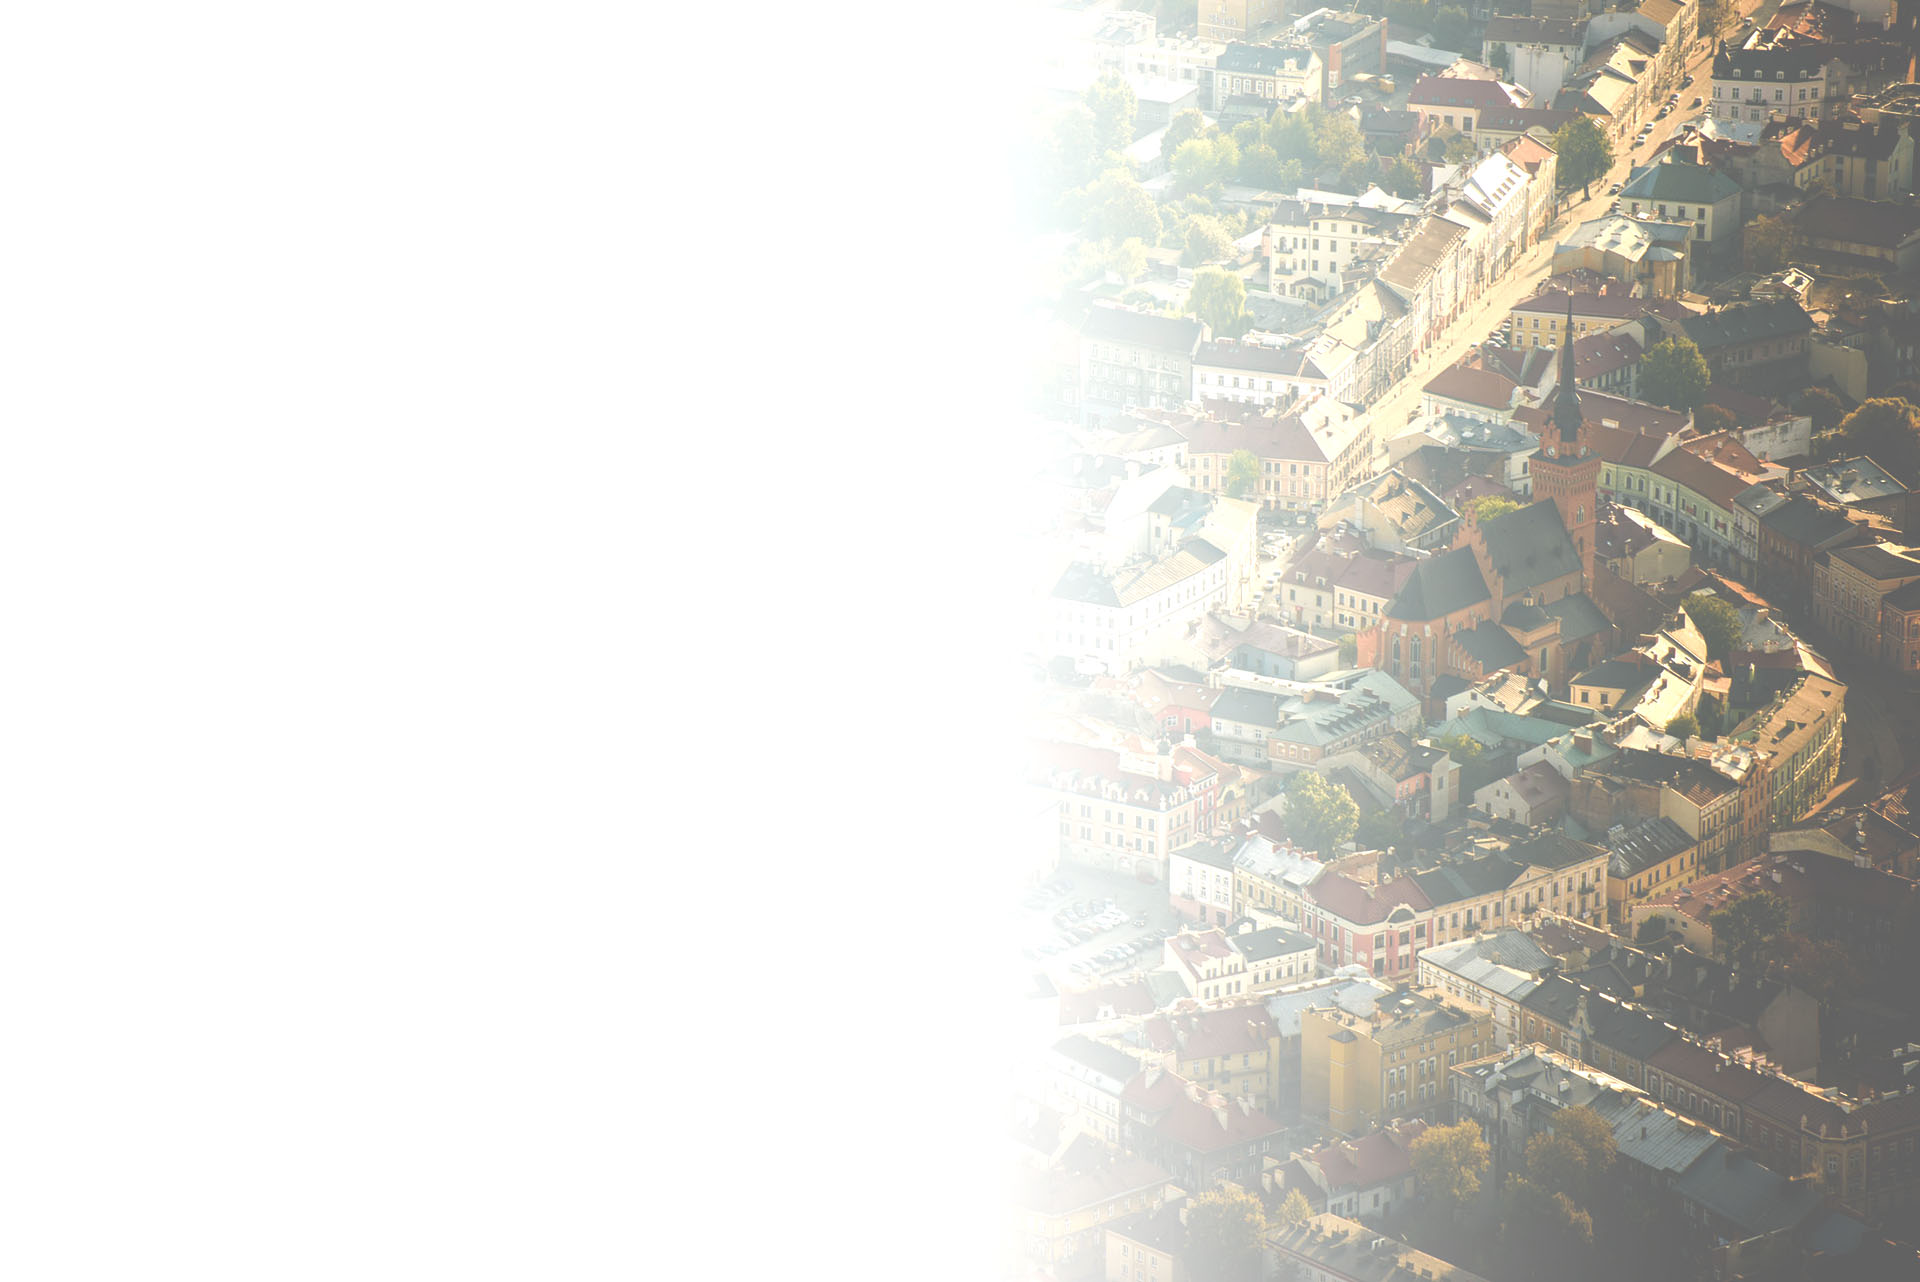
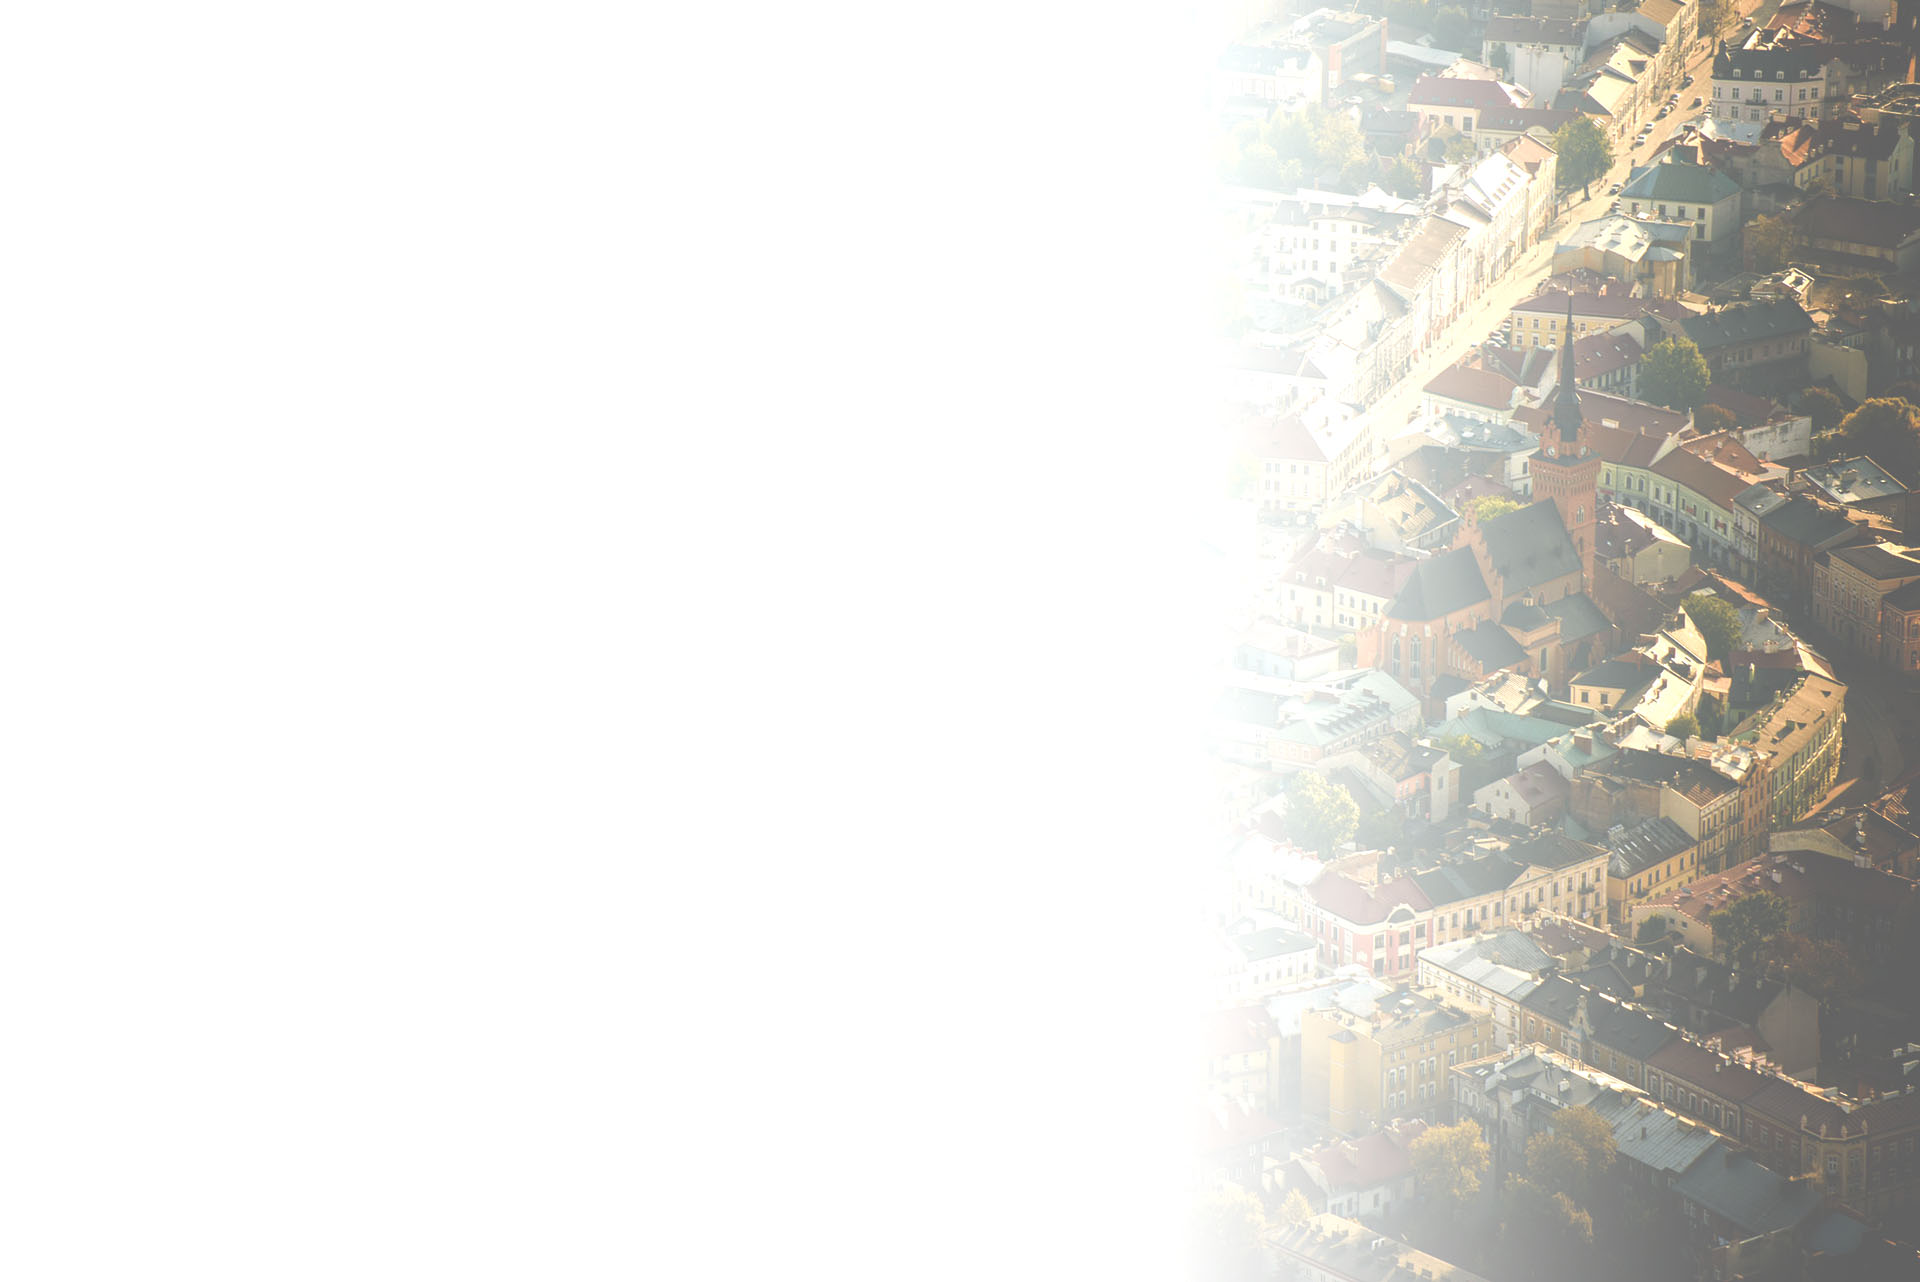
attributions, hrome styling, register styling

Changed region(s): [[0.5625, 0.0, 0.8438, 1.0]]

diff --git a/hackhathonTarnow/wwwroot/hackhaton/src/app/registration/registration.component.html b/hackhathonTarnow/wwwroot/hackhaton/src/app/registration/registration.component.html
@@ -1,52 +1,58 @@
-<form class="registration-form container" [formGroup]="registerForm" (ngSubmit)="onFormSubmit(registerForm.value)" >
-  <div class="form-fields">
-    <div class="row">
-      <div class="col-6">
-        <mat-form-field class="form-field">
-          <input matInput required placeholder="Imie" formControlName="Name">
-          <mat-error *ngIf="!registerForm.get('Name').valid && registerForm.get('Name').touched">  
-            Imie jest <strong>wymagane</strong> 
-          </mat-error> 
-        </mat-form-field>
-        <mat-form-field class="form-field">
-          <input matInput formControlName="Surname" placeholder="Nazwisko">
-          <mat-error *ngIf="!registerForm.get('Surname').valid && registerForm.get('Surname').touched">
-            Nazwisko jest <strong>wymagane</strong>
-          </mat-error>
-        </mat-form-field>
-        <mat-form-field class="form-field">
-          <input matInput placeholder="Telefon" formControlName="Phone">
-         <!--  <mat-error *ngIf="!registerForm.get('Phone').valid && registerForm.get('Phone').touched">
-            Wprowadz poprawny number telefonu.
-          </mat-error>  -->
-          <mat-error *ngIf="!registerForm.get('Phone').valid && registerForm.get('Phone').touched">
-            Telefon jest <strong>wymagany</strong>
-          </mat-error>
-        </mat-form-field>
-      </div>
-      <div class="col-6">
-        <mat-form-field class="form-field">
+<mat-card>
+  <mat-card-title>Zarejestruj się w <span>park</span><span>IN</span></mat-card-title>
+  <mat-card-subtitle>Znajdziemy dla Ciebie miejsce.</mat-card-subtitle>
+  <mat-card-content>
+    <form class="registration-form container" [formGroup]="registerForm" (ngSubmit)="onFormSubmit(registerForm.value)">
+      <div class="form-fields">
+        <div class="row">
+          <div class="col-6">
+            <mat-form-field class="form-field">
+              <input matInput required placeholder="Imie" formControlName="Name">
+              <mat-error *ngIf="!registerForm.get('Name').valid && registerForm.get('Name').touched">
+                Imie jest <strong>wymagane</strong>
+              </mat-error>
+            </mat-form-field>
+            <mat-form-field class="form-field">
+              <input matInput required formControlName="Surname" placeholder="Nazwisko">
+              <mat-error *ngIf="!registerForm.get('Surname').valid && registerForm.get('Surname').touched">
+                Nazwisko jest <strong>wymagane</strong>
+              </mat-error>
+            </mat-form-field>
+            <mat-form-field class="form-field">
+              <input matInput required placeholder="Telefon" formControlName="Phone">
+              <!--  <mat-error *ngIf="!registerForm.get('Phone').valid && registerForm.get('Phone').touched">
+                 Wprowadz poprawny number telefonu.
+               </mat-error>  -->
+              <mat-error *ngIf="!registerForm.get('Phone').valid && registerForm.get('Phone').touched">
+                Telefon jest <strong>wymagany</strong>
+              </mat-error>
+            </mat-form-field>
+          </div>
+          <div class="col-6">
+            <mat-form-field class="form-field">
 
-          <input matInput placeholder="Email" formControlName="Email">
-          <!-- <mat-error *ngIf="emailFormControl.hasError('email') && !emailFormControl.hasError('required')">
-            Wprowadz poprawny adres email.
-          </mat-error> 
-        -->
-          <mat-error *ngIf="!registerForm.get('Email').valid && registerForm.get('Email').touched">
-            Email jest <strong>wymagany</strong>
-          </mat-error>
-        </mat-form-field>
-        <mat-form-field class="form-field">
-          <input matInput type="password" formControlName="Password" placeholder="Hasło">
-          <mat-error *ngIf="!registerForm.get('Password').valid && registerForm.get('Password').touched">
-            Hasło jest <strong>wymagane</strong>
-          </mat-error>
-        </mat-form-field>
-        <mat-form-field class="form-field">
-          <input matInput name="CardID" placeholder="ID karty miejskiej" >
-        </mat-form-field>
+              <input matInput required placeholder="Email" formControlName="Email">
+              <!-- <mat-error *ngIf="emailFormControl.hasError('email') && !emailFormControl.hasError('required')">
+                  Wprowadz poprawny adres email.
+                </mat-error>
+              -->
+              <mat-error *ngIf="!registerForm.get('Email').valid && registerForm.get('Email').touched">
+                Email jest <strong>wymagany</strong>
+              </mat-error>
+            </mat-form-field>
+            <mat-form-field class="form-field">
+              <input matInput required type="password" formControlName="Password" placeholder="Hasło">
+              <mat-error *ngIf="!registerForm.get('Password').valid && registerForm.get('Password').touched">
+                Hasło jest <strong>wymagane</strong>
+              </mat-error>
+            </mat-form-field>
+            <mat-form-field class="form-field">
+              <input matInput name="CardID" placeholder="ID karty miejskiej">
+            </mat-form-field>
+          </div>
+        </div>
+        <button mat-flat-button type="submit" color="primary">Zarejestruj sie</button>
       </div>
-    </div>
-    <button mat-raised-button type= "submit"  color="primary">Zarejestruj sie</button>
-  </div>
-</form>
+    </form>
+  </mat-card-content>
+</mat-card>

diff --git a/hackhathonTarnow/wwwroot/hackhaton/src/app/attribution/attribution.component.html b/hackhathonTarnow/wwwroot/hackhaton/src/app/attribution/attribution.component.html
@@ -1,24 +1,26 @@
-<p>
-  Projekt powstał w ramach <a href="http://www.tarnow.pl/Dla-firm-i-inwestorow/Projekty-i-wydarzenia/Forum-Innowacji">tarnowskiego, 36-godzinnego Hackatonu</a>
-</p>
-<p>
-  Wykorzystane technologie:
-</p>
+<mat-card>
+  <p>
+    Projekt powstał w ramach <a href="http://www.tarnow.pl/Dla-firm-i-inwestorow/Projekty-i-wydarzenia/Forum-Innowacji">tarnowskiego, 36-godzinnego Hackatonu</a>
+  </p>
+  <p>
+    Wykorzystane technologie:
+  </p>
   <ul>
-    <li>Angular 7</li>
-    <li>Angular Material</li>
-    <li>Google Maps</li>
-    <li>Bootstrap</li>
+    <li><a href="https://angular.io/">Angular 7</a></li>
+    <li><a href="https://material.angular.io/">Angular Material</a></li>
+    <li><a href="https://developers.google.com/maps/documentation/">Google Maps</a></li>
+    <li><a href="https://getbootstrap.com/">Bootstrap</a></li>
   </ul>
-<p>
-  Wykorzystani ludzie
-</p>
+  <p>
+    Wykorzystani ludzie
+  </p>
   <ul>
-    <li>Jakub Faliszewski</li>
-    <li>Dawid Malec</li>
-    <li>Dominik Kozioł</li>
-    <li>Krystian Smoleń</li>
+    <li><a href="https://github.com/jakubfaliszewski">Jakub Faliszewski</a></li>
+    <li><a href="https://github.com/dawidmalec7">Dawid Malec</a></li>
+    <li><a href="https://github.com/dominikkoziol">Dominik Kozioł</a></li>
+    <li><a href="https://github.com/ksmolenwsei">Krystian Smoleń</a></li>
   </ul>
-<p>
-  Wykorzystano ikony z pakietu Essential Collection autorstwa Smashicons | www.flaticon.com
- </p>
+  <p>
+    Wykorzystano ikony autorstwa Smashicons | <a href="https://www.flaticon.com/authors/smashicons">www.flaticon.com</a>
+</p>
+</mat-card>

diff --git a/hackhathonTarnow/wwwroot/hackhaton/src/app/home/home.component.html b/hackhathonTarnow/wwwroot/hackhaton/src/app/home/home.component.html
@@ -30,7 +30,7 @@
         <div class="col-12 col-sm-6 bg-white">
           <div class="left-side-wrapper">
             <form class="login-form">
-              <mat-card-title>Witamy w parkIN</mat-card-title>
+              <mat-card-title>Witamy w <span>park</span><span>IN</span></mat-card-title>
               <mat-card-subtitle>Jedynej w Tarnowie aplikacji parkingowej</mat-card-subtitle>
               <mat-form-field class="form-field full-width">
                 <input matInput placeholder="Email" [(ngModel)]="user.Email" [formControl]="emailFormControl"
@@ -50,15 +50,14 @@
               </mat-form-field>
             </form>
              <mat-card-actions>
-              <a mat-raised-button (click)="login()" color="accent">Zaloguj</a>
-              <a mat-raised-button routerLink="map" color="primary">Mapa</a>
-              <a mat-raised-button routerLink="registration" color="primary">Rejestracja</a>
-              <button mat-button routerLink="info" color="accent">Informacje</button>
+              <a mat-flat-button (click)="login()" color="accent">Zaloguj</a>
+              <a mat-flat-button routerLink="registration" color="primary">Rejestracja</a>
+              <a mat-flat-button routerLink="map" color="primary">Mapa</a>
             </mat-card-actions>
           </div>
         </div>
         <div class="col-sm-6 image-wrapper">
-          <img class="stretch-image" src='../assets/tarnow1.jpg' />
+          <img class="stretch-image" src='../assets/user.svg' />
         </div>
       </div>
     </div>

diff --git a/hackhathonTarnow/wwwroot/hackhaton/src/app/home/home.component.scss b/hackhathonTarnow/wwwroot/hackhaton/src/app/home/home.component.scss
@@ -19,6 +19,15 @@
 
   .mat-card-title {
     padding-bottom: 15px;
+
+    > span:first-of-type {
+      color: #673ab7 ;font-weight: bolder;
+    }
+
+    > span:last-of-type {
+      color: #ffd740;
+      font-weight: bolder;
+    }
   }
 
   .image-wrapper {
@@ -77,6 +86,10 @@
     > span:last-of-type {
       color: #ffd740
     }
+
+    @media (max-width: 767.98px) {
+      font-size: 1.8em;
+    }
   }
 
   h2 {
@@ -85,6 +98,11 @@
     text-align: center;
     text-indent: -30%;
     margin-bottom: 1em;
+
+    @media (max-width: 767.98px) {
+      font-size: 1.5em;
+      text-indent: 0;
+    }
   }
 
   .slider {
@@ -107,6 +125,11 @@
         font-size: 1.3em;
         font-weight: 400;
         color: #49248c;
+        line-height: 1.4em;
+
+        @media (max-width: 767.98px) {
+          font-size: 1em;
+        }
 
         b {
           font-weight: bolder;
@@ -118,6 +141,10 @@
 
 @media (max-width: 767.98px) {
   .image-wrapper {
-    height: 300px;
+    height: 170px;
+
+    img {
+      padding: 10px;
+    }
   }
 } 

diff --git a/hackhathonTarnow/wwwroot/hackhaton/src/styles.scss b/hackhathonTarnow/wwwroot/hackhaton/src/styles.scss
@@ -21,6 +21,17 @@ body {
   .mat-toolbar-row, .mat-toolbar-single-row {
     height: unset;
   }
+
+  .mat-card-actions {
+    display: flex;
+    justify-content: flex-start;
+    a, button{
+      margin-right: 8px;
+      &:last-of-type{
+        margin-left: 16px;
+      }
+    }
+  }
 }
 .bg-image{
   background-position:center !important;
@@ -33,7 +44,7 @@ img{
 .image-wrapper{
   position: relative;
 }
-.stretch-image{
+.stretch-image {
   position: absolute;
   left: 0;
   right: 0;
@@ -44,7 +55,8 @@ img{
   background-position: 50% 50%;
   background-repeat: no-repeat;
   background-size: cover;
-  object-fit: cover
+  object-fit: contain;
+  padding: 40px;
 }
 
 .bg-white{

diff --git a/hackhathonTarnow/wwwroot/hackhaton/src/app/attribution/attribution.component.scss b/hackhathonTarnow/wwwroot/hackhaton/src/app/attribution/attribution.component.scss
@@ -1,0 +1,24 @@
+:host {
+  width: 100%;
+  max-height: 100%;
+  padding: 0px 0 20px;
+  display: flex;
+  align-items: center;
+  justify-content: center;
+  flex-direction: column;
+  line-height: 1.4em;
+  font-size: 1.2em;
+  background-image: url('../../assets/pattern.jpg');
+
+  a {
+    color: #ffd740;
+    font-weight: 500;
+    padding: 0 8px;
+    background: rgba(0, 0, 0, 0.37);
+  }
+
+  .mat-card {
+    background-color: rgba(255, 255, 255, 0.6);
+    text-align: center;
+  }
+}

diff --git a/hackhathonTarnow/wwwroot/hackhaton/src/app/registration/registration.component.scss b/hackhathonTarnow/wwwroot/hackhaton/src/app/registration/registration.component.scss
@@ -3,3 +3,16 @@
     width: 100%;
   }
 }
+.mat-card-title {
+  padding-bottom: 15px;
+
+  > span:first-of-type {
+    color: #673ab7;
+    font-weight: bolder;
+  }
+
+  > span:last-of-type {
+    color: #ffd740;
+    font-weight: bolder;
+  }
+}
